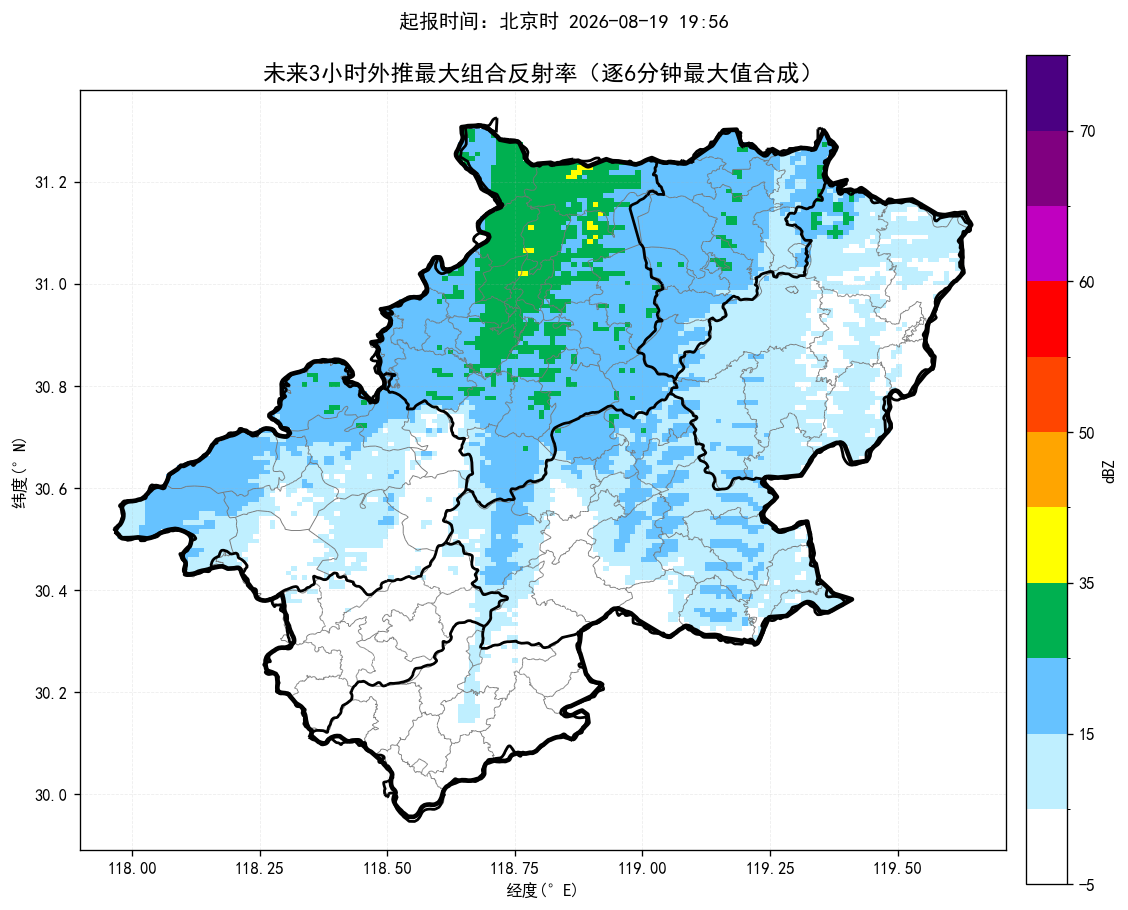
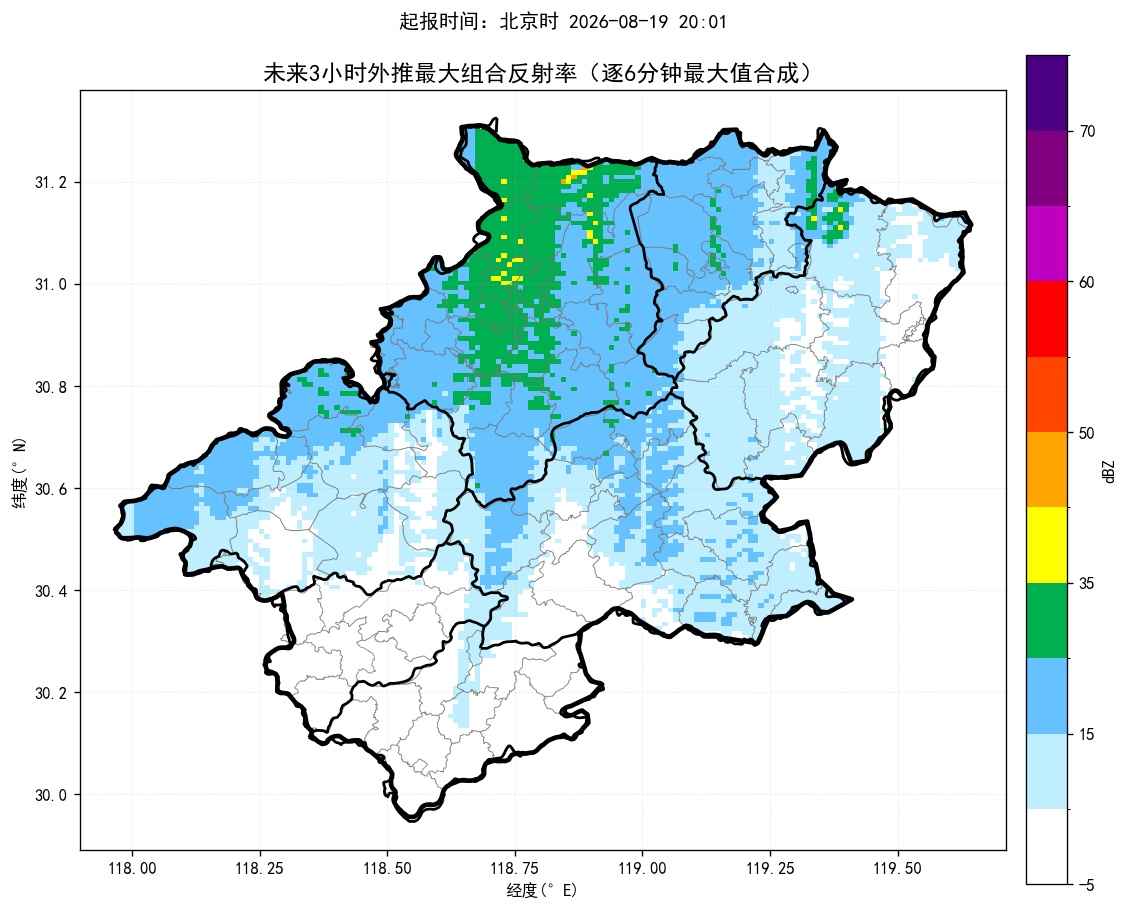
update nowcast products

Changed region(s): [[0.0931, 0.1538, 0.8688, 0.8], [0.4034, 0.1231, 0.4654, 0.2154], [0.5895, 0.0, 0.6516, 0.0308]]

diff --git a/index.html b/index.html
@@ -14,14 +14,14 @@ img.product{display:block;width:100%;height:auto;margin:10px auto 26px;border:1p
 .footer{font-size:13px;color:#777;text-align:center;margin-top:30px}
 @media(max-width:700px){.sheet{margin:0;padding:18px 15px}.alert-title{font-size:22px}.county-line{font-size:17px}.prob{font-size:18px}}
 </style></head><body><main class="sheet">
-<div class="time">起报时间：北京时 2026-08-19 19:56</div>
+<div class="time">起报时间：北京时 2026-08-19 20:01</div>
 <div class="alert-title">未来一小时降水量超过 20 毫米的乡镇：</div><div class="county-line">无</div>
 <div class="alert-title">未来三小时降水量超过 50 毫米的乡镇：</div><div class="county-line">无</div>
 <div class="alert-title">未来三小时雷暴大风（组合反射率 > 55 dBZ）的乡镇：</div><div class="county-line">无</div>
-<div class="prob">最大降水量概率预估：宣城市范围内未来三小时降水偏小，最大预报约10.5毫米，暂不进行50/80/100毫米概率预估。</div>
-<div class="section-title">未来降水预报图：</div><img class="product auto-refresh-product" data-src="短临降水预报.png" src="短临降水预报.png?v=20260819200158" alt="未来降水预报图">
-<div class="section-title">未来三小时组合反射率图：</div><img class="product auto-refresh-product" data-src="未来3小时组合反射率.png" src="未来3小时组合反射率.png?v=20260819200158" alt="未来三小时组合反射率图">
-<div class="section-title">未来三小时雷暴大风图：</div><img class="product auto-refresh-product" data-src="未来3小时雷暴大风.png" src="未来3小时雷暴大风.png?v=20260819200158" alt="未来三小时雷暴大风图">
+<div class="prob">最大降水量概率预估：宣城市范围内未来三小时降水偏小，最大预报约5.9毫米，暂不进行50/80/100毫米概率预估。</div>
+<div class="section-title">未来降水预报图：</div><img class="product auto-refresh-product" data-src="短临降水预报.png" src="短临降水预报.png?v=20260819200748" alt="未来降水预报图">
+<div class="section-title">未来三小时组合反射率图：</div><img class="product auto-refresh-product" data-src="未来3小时组合反射率.png" src="未来3小时组合反射率.png?v=20260819200748" alt="未来三小时组合反射率图">
+<div class="section-title">未来三小时雷暴大风图：</div><img class="product auto-refresh-product" data-src="未来3小时雷暴大风.png" src="未来3小时雷暴大风.png?v=20260819200748" alt="未来三小时雷暴大风图">
 <div class="footer">三张产品图每 60 秒自动刷新一次；每次请求自动附加新的URL参数以绕过缓存。</div>
 <script>
 (function() {
